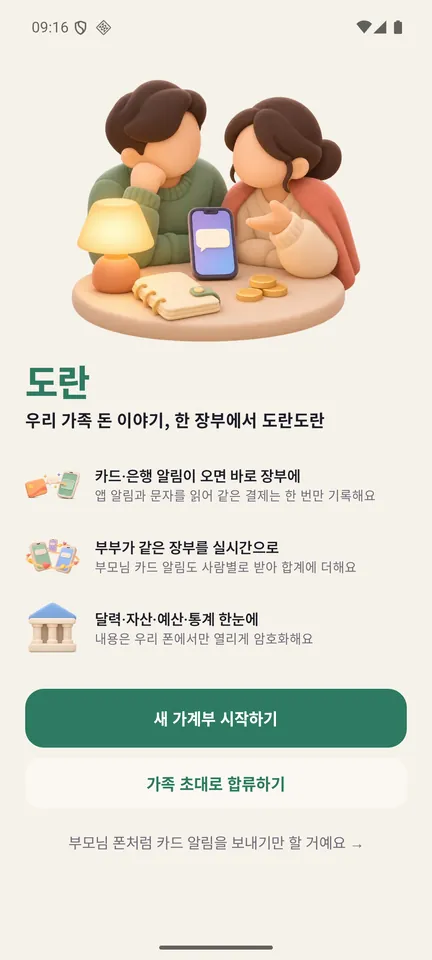
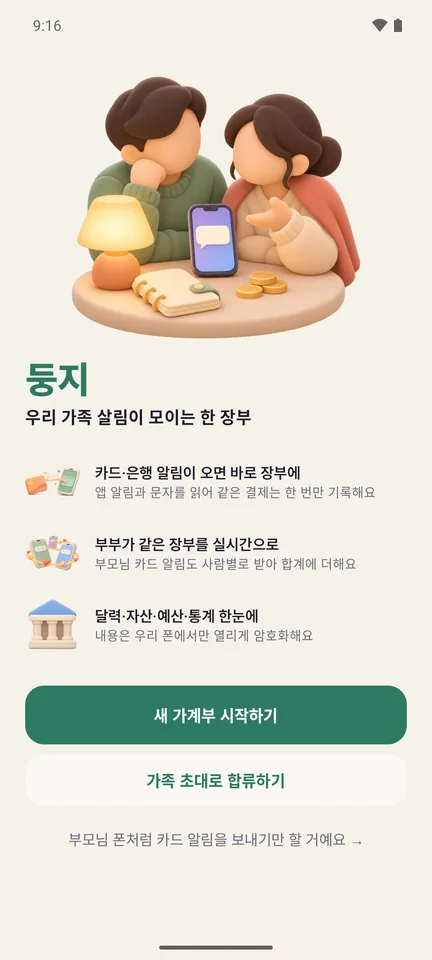
0.2.0 버전, 첫 화면·알림 스크린샷을 '둥지'로
- android/gradle.properties app.version 0.2.0
- README 첫 화면 캡처를 에뮬레이터에서 다시 찍음(데모 모드 상태 표시줄)
- Play 스크린샷 첫 장: '도란' 때 찍은 실제 가족 알림의 아이콘 원만, '둥지' 앱이
  실제로 띄운 알림에서 잘라 둔 notify-icon.png로 바꿔 붙임(make_play.py에 기록)
- 백로그: 에뮬레이터 확인 결과, 못 본 테마 아이콘, 예산 알림 띄어쓰기(예전부터)

diff --git a/design/make_play.py b/design/make_play.py
@@ -7,6 +7,8 @@
 - screenshots/0N-*.png: 휴대전화 스크린샷 1080x1920(9:16). Play는 긴 변이 짧은 변의 2배 이하여야 해서
   1080x2400 캡처를 그대로 쓰지 못하고, 설명 문구와 함께 틀에 담습니다.
 원본 캡처: design/play/source (예시 장부 — scripts/fake-peer.mjs demo, 로컬 중계에서 만든 가상의 가족 데이터).
+첫 장의 알림(fcm1.png, 2026-11-17)은 옛 이름 '도란' 때 찍은 실제 알림이라, 아이콘 원만 2026-11-20 '둥지' 앱이 실제로 띄운 알림에서
+잘라 둔 notify-icon.png로 바꿔 붙입니다(같은 기기 설정·같은 자리·같은 크기). 가족 알림을 다시 찍으면 이 단계를 지우세요.
 """
 from pathlib import Path
 from PIL import Image, ImageDraw, ImageFilter, ImageFont
@@ -75,6 +77,10 @@ def screenshot(name: str, title: str, sub: str, src: str, overlay: Image.Image |
 def notification_card() -> Image.Image:
     """실제 알림(아내 폰, 앱은 꺼진 상태)을 잘라 크게 띄웁니다."""
     shade = Image.open(SRC / "fcm1.png").convert("RGB")
+    icon = Image.open(SRC / "notify-icon.png").convert("RGB")  # 67x67, 원(63px) 둘레 2px 포함
+    ring = Image.new("L", (icon.width * 4, icon.height * 4), 0)
+    ImageDraw.Draw(ring).ellipse((4, 4, icon.width * 4 - 5, icon.height * 4 - 5), fill=255)
+    shade.paste(icon, (82, 1101), ring.resize(icon.size, Image.LANCZOS))
     card = shade.crop((42, 1025, 1038, 1243))
     card = card.resize((round(card.width * 0.98), round(card.height * 0.98)), Image.LANCZOS)
     c = rounded(card, 46)

diff --git a/BACKLOG.md b/BACKLOG.md
@@ -46,7 +46,11 @@
 
 - [ ] Play Console 기본 스토어 등록정보: 앱 이름 `둥지 - 우리 가족 가계부`, 자세한 설명(`design/play/listing-ko.md`), 아이콘 512·그래픽 이미지 교체, 스크린샷 첫 장(알림 장면) 교체 — 0.2.0을 Play에 낼 때 함께(검토 거침)
 - [ ] Play 테스터 목록 이름 "도란 가족"은 Play Console 안에서만 보이는 이름이라 그대로 둬도 됨(바꾸려면 테스터 탭에서)
-- [ ] 실기기(사용자 S24·아내 폰)에서 업데이트 뒤 홈 화면 아이콘·이름, 테마 아이콘, 알림 아이콘 확인
+- [x] 에뮬레이터(API 36, 2026-11-20): 첫 화면 '둥지'·새 문구, 알림 권한 창 "Allow 둥지…", 앱 서랍 아이콘·이름, 상태 표시줄 아이콘, 알림 카드("둥지 · now") 확인. README 첫 화면 캡처 다시 찍음
+- [ ] 테마 아이콘(단색)은 화면에서 못 봄(PC 메모리가 바닥나 에뮬레이터를 끔) — 실기기에서 '테마 아이콘' 켜고 확인
+- [ ] 실기기(사용자 S24·아내 폰)에서 업데이트 뒤 홈 화면 아이콘·이름, 알림 아이콘 확인
+- [ ] Play 스크린샷 첫 장의 알림은 '도란' 때 찍은 실제 가족 알림에 '둥지' 실제 알림의 아이콘 원만 옮겨 붙인 것(`design/make_play.py`) — 가족 알림을 새로 찍으면 교체
+- [ ] (이번에 발견, 예전부터) 예산 알림 제목 "이번 달 예산 의 80%를 썼어요"·"…을(를) 다 썼어요": 이름 뒤 띄어쓰기와 조사를 `Josa`로 맞추기(`logic/Hooks.kt` budgetCheck)
 - 초대 링크 주소(`jeiel85.github.io/doran/join`)에 옛 이름 'doran'이 남음 — 깔린 앱이 이 주소를 만들기 때문에 바꾸려면 새 주소와 옛 주소를 한동안 함께 받아야 함. 지금은 그대로 둠
 
 ## 하드닝에서 미룬 것 (2026-11-19, 0.1.14에서 #13·#15·#19·#18 정리 때)
